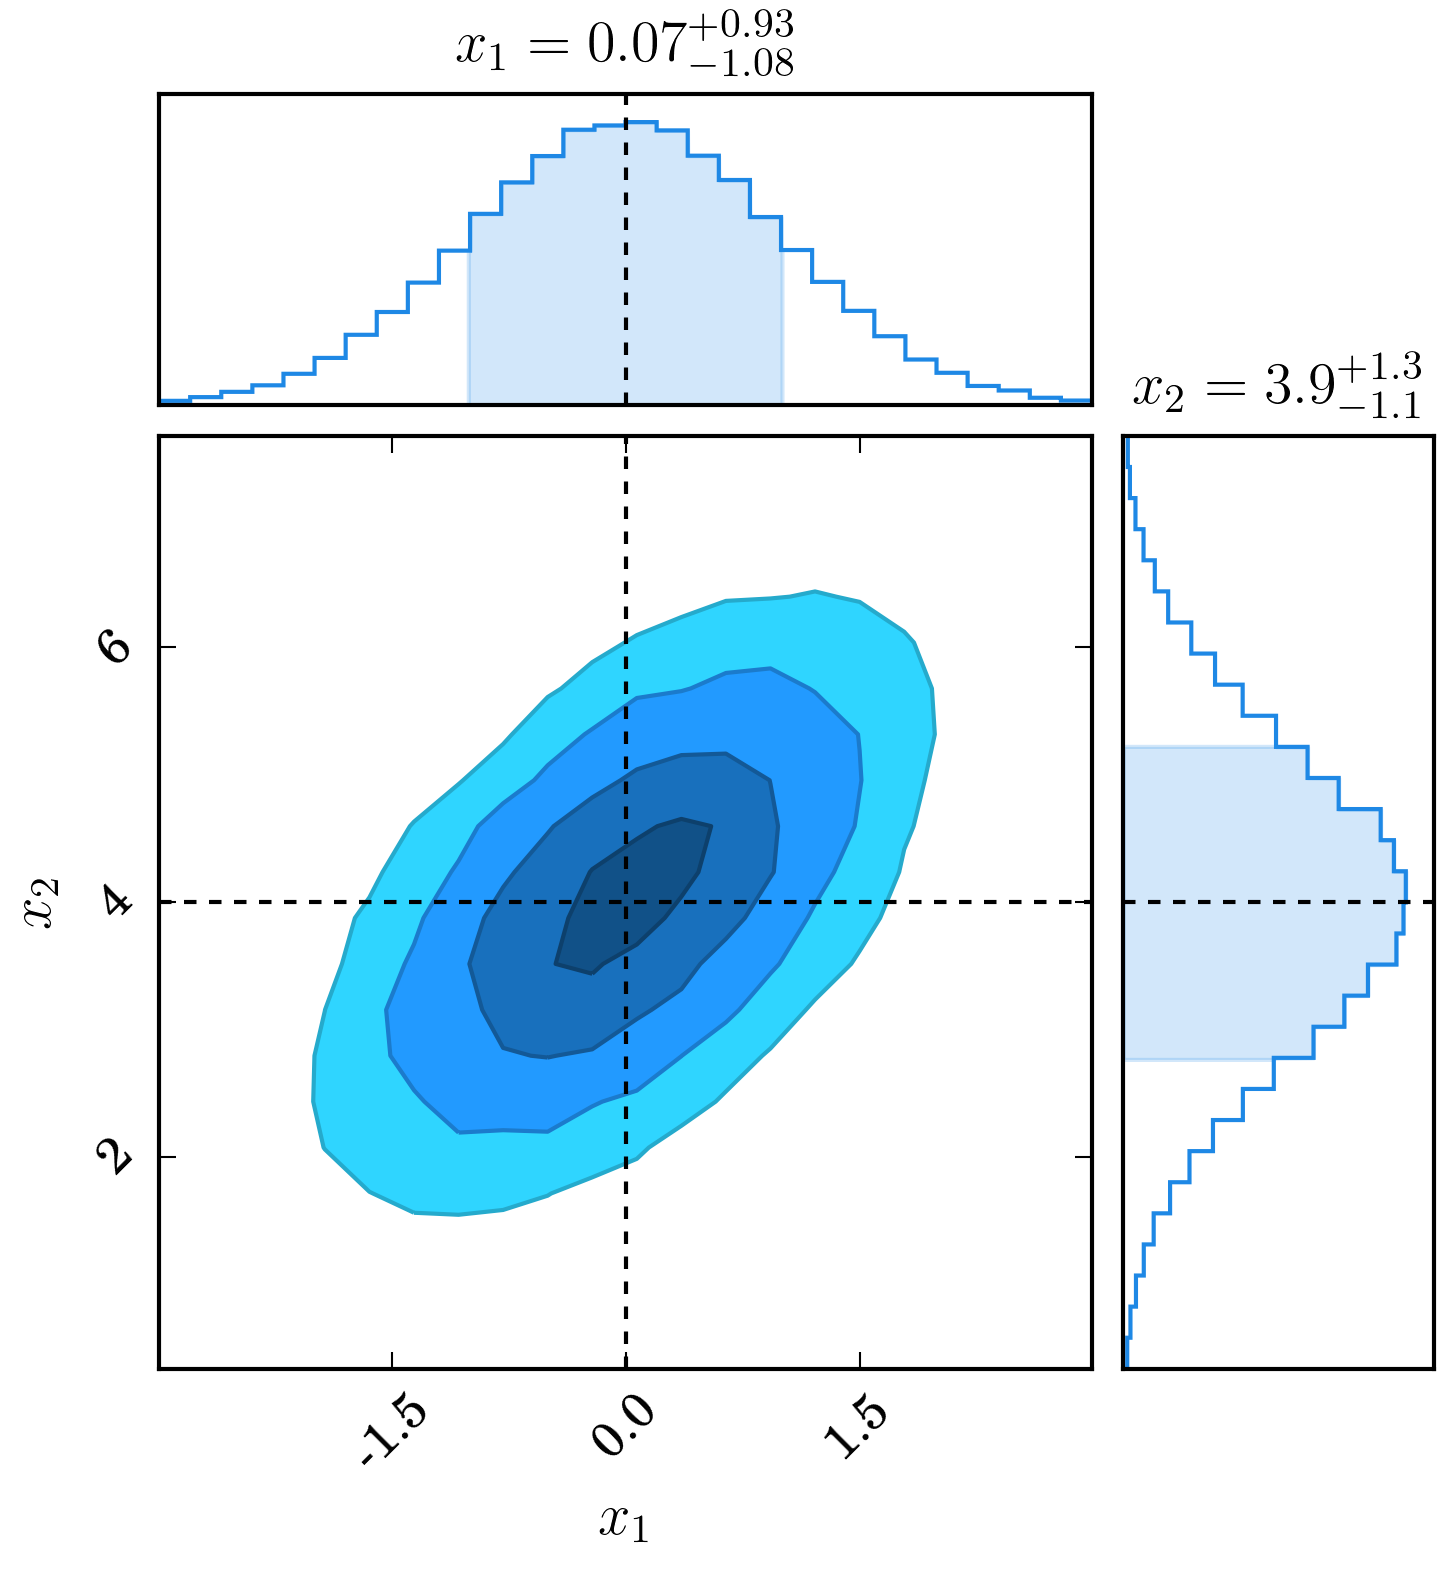
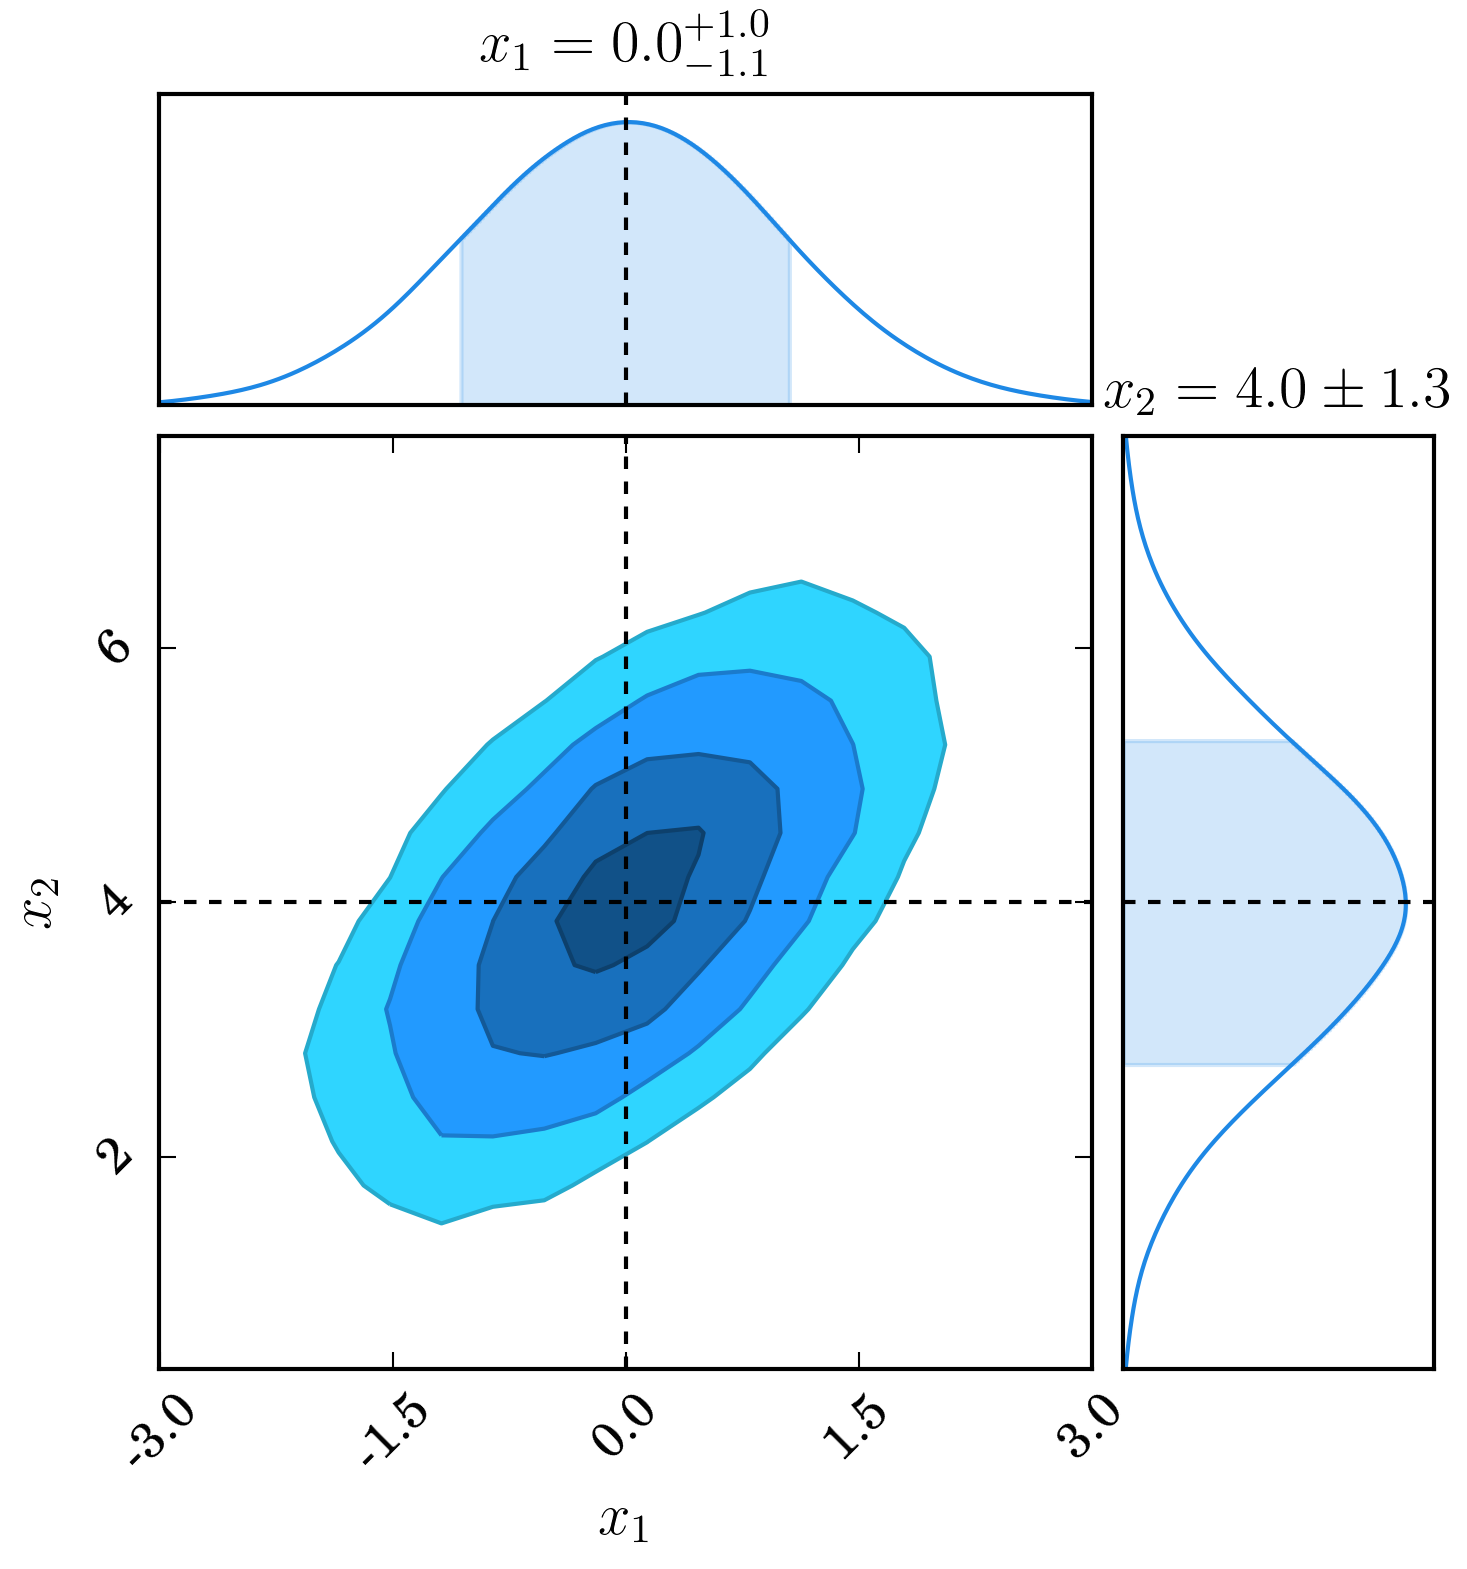
Updating bins, adding no smooth example

diff --git a/examples/customisations/plot_no_smooth.py b/examples/customisations/plot_no_smooth.py
@@ -1,0 +1,31 @@
+"""
+============
+No Smoothing
+============
+
+We can turn off the default gaussian filter on marginalised distributions.
+
+This can be done by setting ``smooth`` to either ``0`` or ``None``.
+Note that the parameter summaries also have smoothing turned off, and
+thus summaries may change.
+
+"""
+
+import numpy as np
+from chainconsumer import ChainConsumer
+
+if __name__ == "__main__":
+    data = np.random.multivariate_normal([0.0, 4.0], [[1.0, 0.7], [0.7, 1.5]], size=100000)
+
+    c = ChainConsumer()
+    c.add_chain(data, parameters=["$x_1$", "$x_2$"])
+    c.configure_general(smooth=0)
+    fig = c.plot(figsize="column", truth=[0.0, 4.0])
+
+    # If we wanted to save to file, we would instead have written
+    # fig = c.plot(filename="location", figsize="column", truth=[0.0, 4.0])
+
+    # If we wanted to display the plot interactively...
+    # fig = c.plot(display=True, figsize="column", truth=[0.0, 4.0])
+
+    fig.set_size_inches(2.5 + fig.get_size_inches())  # Resize fig for doco. You don't need this.

diff --git a/chainconsumer/chain.py b/chainconsumer/chain.py
@@ -933,7 +933,7 @@ class ChainConsumer(object):
         return fig, axes, params1, params2, extents
 
     def _get_bins(self):
-        proposal = [max(20, np.floor(1.2 * np.power(chain.shape[0] / chain.shape[1], 0.3)))
+        proposal = [max(20, np.floor(1.0 * np.power(chain.shape[0] / chain.shape[1], 0.3)))
                     for chain in self.chains]
         return proposal
 

diff --git a/test_chain.py b/test_chain.py
@@ -29,7 +29,6 @@ class TestChain(object):
         consumer = ChainConsumer()
         consumer.add_chain(self.data)
         consumer.configure_general(smooth=0)
-        consumer.plot(display=True)
         summary = consumer.get_summary()
         actual = np.array(list(summary[0].values())[0])
         expected = np.array([3.5, 5.0, 6.5])
